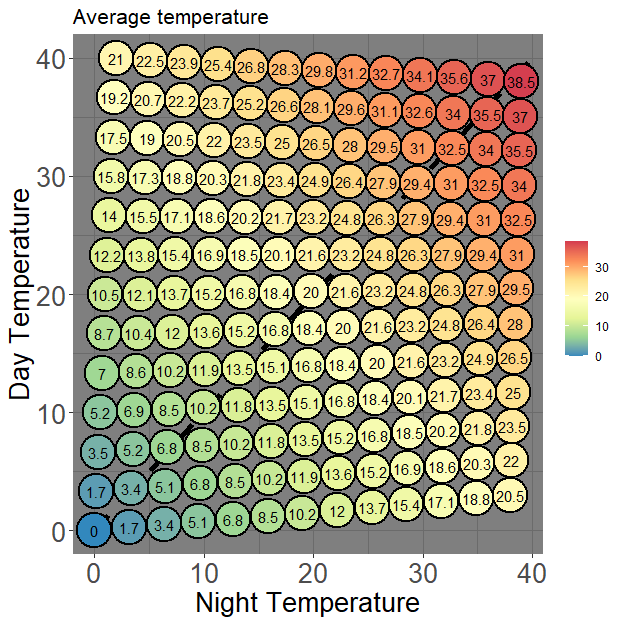
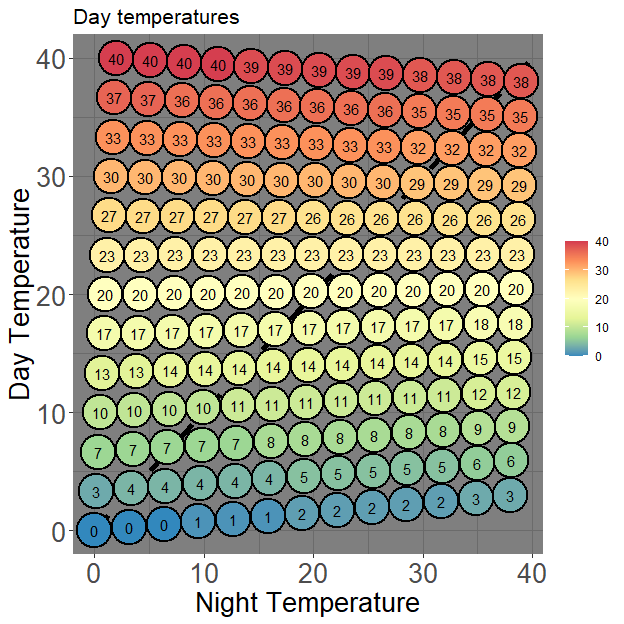
readme update

diff --git a/README.md b/README.md
@@ -13,15 +13,15 @@
 
 ![](images/head_title.png)
 
-`thermgRad` package aims to provide with tools to visualize and analyze
-germination experiments conducted using a temperature gradient plate
-(TGP) with a bidirectional setting (day/night cycle) and obtain cardinal
-temperatures for each of the temperature fluctuations thresholds across
-the thermal gradient plate.
+`thermgRad` package aims to provide with useful tools to visualize and
+analyze germination experiments conducted using a temperature gradient
+plate (TGP) with a bidirectional setting (day/night cycle) and obtain
+cardinal temperatures for each of the temperature fluctuations
+thresholds across the thermal gradient plate.
 
 ## Installation
 
-You can install the development version of thermgRad from
+You can install the development version of `thermgRad` from
 [GitHub](https://github.com/pgomba) with:
 
 ``` r
@@ -33,17 +33,14 @@ library(thermgRad)
 ## What data does the package require?
 
 -   Temperature: `thermgRad` needs average day and night corner
-    temperatures. These are better recorded with an external temperature
-    logger, since temperatures on the top side of the plate differ from
-    those used in the TGP settings. If possible, It´s probably better to
-    record temperatures in the center of four Petri dishes closest to
-    the corner (either log the temperature before or after the
-    experiment for a few days). But `thermgRad` provides the necessary
-    tools to transform corner temperatures to corner Petri dish center
-    temperatures.
-    <center>
-    <img src="images/scheme.png" width="672"/>
-    </center>
+    temperatures. These are best recorded at the center of the nearest
+    to each corner Petri dish (either log temperature for a few days
+    before or after the experiment), but `thermgRad` provides with the
+    neccesary tools to adjust temperature registered at each corner of
+    the TGP to center of Petri dish temperature. Avoid using TGP setting
+    temperatures as corner temperatures, since these can differ from the
+    temperatures recorded on top of the metal plate.
+
 -   Germination: `thermgRad` requires, for each Petri dish an ID,
     cumulative germination and day such germination was reached and
     total number of seeds in the Petri dish (germinated + moldy + viable
@@ -80,71 +77,87 @@ thermgRad::coolbear(scoring_days,cumulative_germination,total_seeds) #Outputs T5
 #> [1] 11.16667
 ```
 
-Among other things, `thermgRad::petri_grid` loops `thermgRad::coolbear`
-all over the template data frame to obtain T<sub>50</sub> values for
-each Petri dish
+`thermgRad::coolbear` can be used as a standalone function or looped
+through a data frame, which is what `thermgRad::petri_grid` does,
+outputting individual information for each Petri dish (label, final
+germination %, T<sub>50</sub> and germination rate).
+`thermgRad::petri_grid` is one of the core sub-functions of
+`thermgRad::cardinal`, but I’ll get to that later [(or jump to it
+now!)](#obtaining-cardinal-temperatures).
+
+``` r
+data<-thermgRad::tg_example
+head(petri_grid(data))
+#>   PD_ID     germ       t50         GR
+#> 1    A1  0.00000        NA         NA
+#> 2    A2 70.00000 28.000000 0.03571429
+#> 3    A3 75.00000 14.500000 0.06896552
+#> 4    A4 73.68421 10.500000 0.09523810
+#> 5    A5 80.00000  7.833333 0.12765957
+#> 6    A6 80.00000  7.857143 0.12727273
+```
 
 ### Visualizing your experiment
 
 `thermgRad::plot_results` collects your experiments results and
-temperatures and collects them on a Day/Night graph. It´s possible to
-choose between showing average Petri dish temperature, average
-temperature fluctuation and germination with parameter
-`toplot= "average`,`toplot= "fluctuation`or`toplot= "germina"`.
+temperatures and collects them on a Day/Night temperature graph. The
+basic inputs this function needs are: - a formatted data frame like
+`thermgRad::tg_example - number of Petri dishes per column/row - Corner temperatures following this order (Day Bottom Left, Day Bottom Right, Day Top Left, Day Top Right, Night Bottom left, Night Bottom Right, Night Top Left and Night Top Right) e.g:`0,0,40,40,0,40,0,40`- Desired output via the parameter`toplot`, which allows to choose between several options. Use`=“daytemp”`,`=“nighttemp”`or`=“average”`to show day, night or average temperature, respectively. Additionally, use`=“fluctuation”`to show the temperature fluctuation of each dish or`=“germina”\`
+to show final germination %.
 
 ``` r
 data<-thermgRad::tg_example
 thermgRad::plot_results(data, 0,0,40,40,0,40,0,40, petri=13, toplot= "germina")
 ```
 
-<img src="man/figures/README-unnamed-chunk-6-1.png" width="100%" />
-
-Input `?plot_results` in the R console for a list of parameters.
-`0,0,40,40,0,40,0,40` refers to corner temperatures. The first four
-number belong to daytime temperatures (Bottom left, Bottom right, Top
-left and Top right) followed by nighttime temperatures (again, Bottom
-left, Bottom right, Top left and Top right). `thermgRad:plot_results`
-assumes you want to use average temperature between corners (e.g. If
-during daytime the bottom left corner runs at 5°C, and the bottom right
-corner runs at 8°C, the function will use 6.5°C). Enabling
-`method="precise"` within the function creates a more accurate
-temperature grid. The graph wont look as pretty, but analysis of
-cardinal temperatures will be more accurate (which is the one that
-matters).
-
-``` r
-data<-thermgRad::tg_example
-thermgRad::plot_results(data, 0,3,40,38,0,38,2,39, petri=13, toplot= "fluctuation",method="precise")
-```
-
 <img src="man/figures/README-unnamed-chunk-7-1.png" width="100%" />
 
-If temperature was recorded in the corners of the TGP and need to be
-adjusted to the center of each Petri use `"adjust==TRUE"`. Can be
-combined with `"method==precise"`
+By default, `thermgRad:plot_results` uses average temperature between
+“equal” temperature corners (i.e. If the bottom left corner is at 0°C
+and the bottom right corner is at 2°C, it will assume the whole bottom
+row is at 1°C). However, using `method="precise"` will create a
+temperature gradient based in individual corner temperatures and will
+likely give each Petri dish an individual temperature. The output plot
+does not look as straight and good as one without using the method
+(remember the grid is not a visual representation of the TGP, but a day
+vs night temperature plot) but the temperature grid will be more
+accurate
 
 ``` r
 data<-thermgRad::tg_example
-thermgRad::plot_results(data, 0,3,40,38,0,38,2,39, petri=13, toplot= "average",method="precise",adjust=TRUE)
+thermgRad::plot_results(data, 0,3,40,38,0,38,2,39, petri=13, toplot= "daytemp",method="precise")
 ```
 
 <img src="man/figures/README-unnamed-chunk-8-1.png" width="100%" />
+There is yet another possible adjustment to do. If temperatures were
+recorded in each of the TGP corners, this can be adjusted to the center
+of each Petri dish for more accurate analysis. By adding the parameter
+`adjust=TRUE`
+<center>
+<img src="images/scheme.png" width="400"/>
+</center>
 
-The dataset supporting this graph can be obtained by using
-`thermgRad::grid_results`. Again, enabling `method="precise"` will
-create a gradient using all corner temperatures instead of average
-temperatures.
+``` r
+data<-thermgRad::tg_example
+thermgRad::plot_results(data, 0,3,40,38,0,38,2,39, petri=13, toplot= "daytemp",method="precise",adjust=TRUE)
+```
+
+<img src="man/figures/README-unnamed-chunk-9-1.png" width="100%" />
+
+To obtain the dataset used to create the graph use the function
+`thermgRad::grid_results` which uses the same parameters from
+`thermgRad::plot_results` without`toplot`.
 
 ``` r
 data<-thermgRad::tg_example
 head(thermgRad::grid_results(data, 0,3,40,38,0,38,2,39, petri=13,method="precise",adjust=TRUE))
-#>   PD_ID day_temp night_temp average  fluc abs_fluc     germ
-#> 1    A1 40.00000   2.000000   21.00 38.00    38.00  0.00000
-#> 2    A2 36.66667   1.833333   19.25 34.83    34.83 70.00000
-#> 3    A3 33.33333   1.666667   17.50 31.67    31.67 75.00000
-#> 4    A4 30.00000   1.500000   15.75 28.50    28.50 73.68421
-#> 5    A5 26.66667   1.333333   14.00 25.33    25.33 80.00000
-#> 6    A6 23.33333   1.166667   12.25 22.17    22.17 80.00000
+#>   PD_ID day_temp night_temp  average  fluc abs_fluc     germ
+#> 1    A1 38.38462   3.346154 20.86538 35.04    35.04  0.00000
+#> 2    A2 35.32372   3.195513 19.25962 32.13    32.13 70.00000
+#> 3    A3 32.26282   3.044872 17.65385 29.22    29.22 75.00000
+#> 4    A4 29.20192   2.894231 16.04808 26.31    26.31 73.68421
+#> 5    A5 26.14103   2.743590 14.44231 23.40    23.40 80.00000
+#> 6    A6 23.08013   2.592949 12.83654 20.49    20.49 80.00000
 ```
 
 ### Obtaining cardinal temperatures
